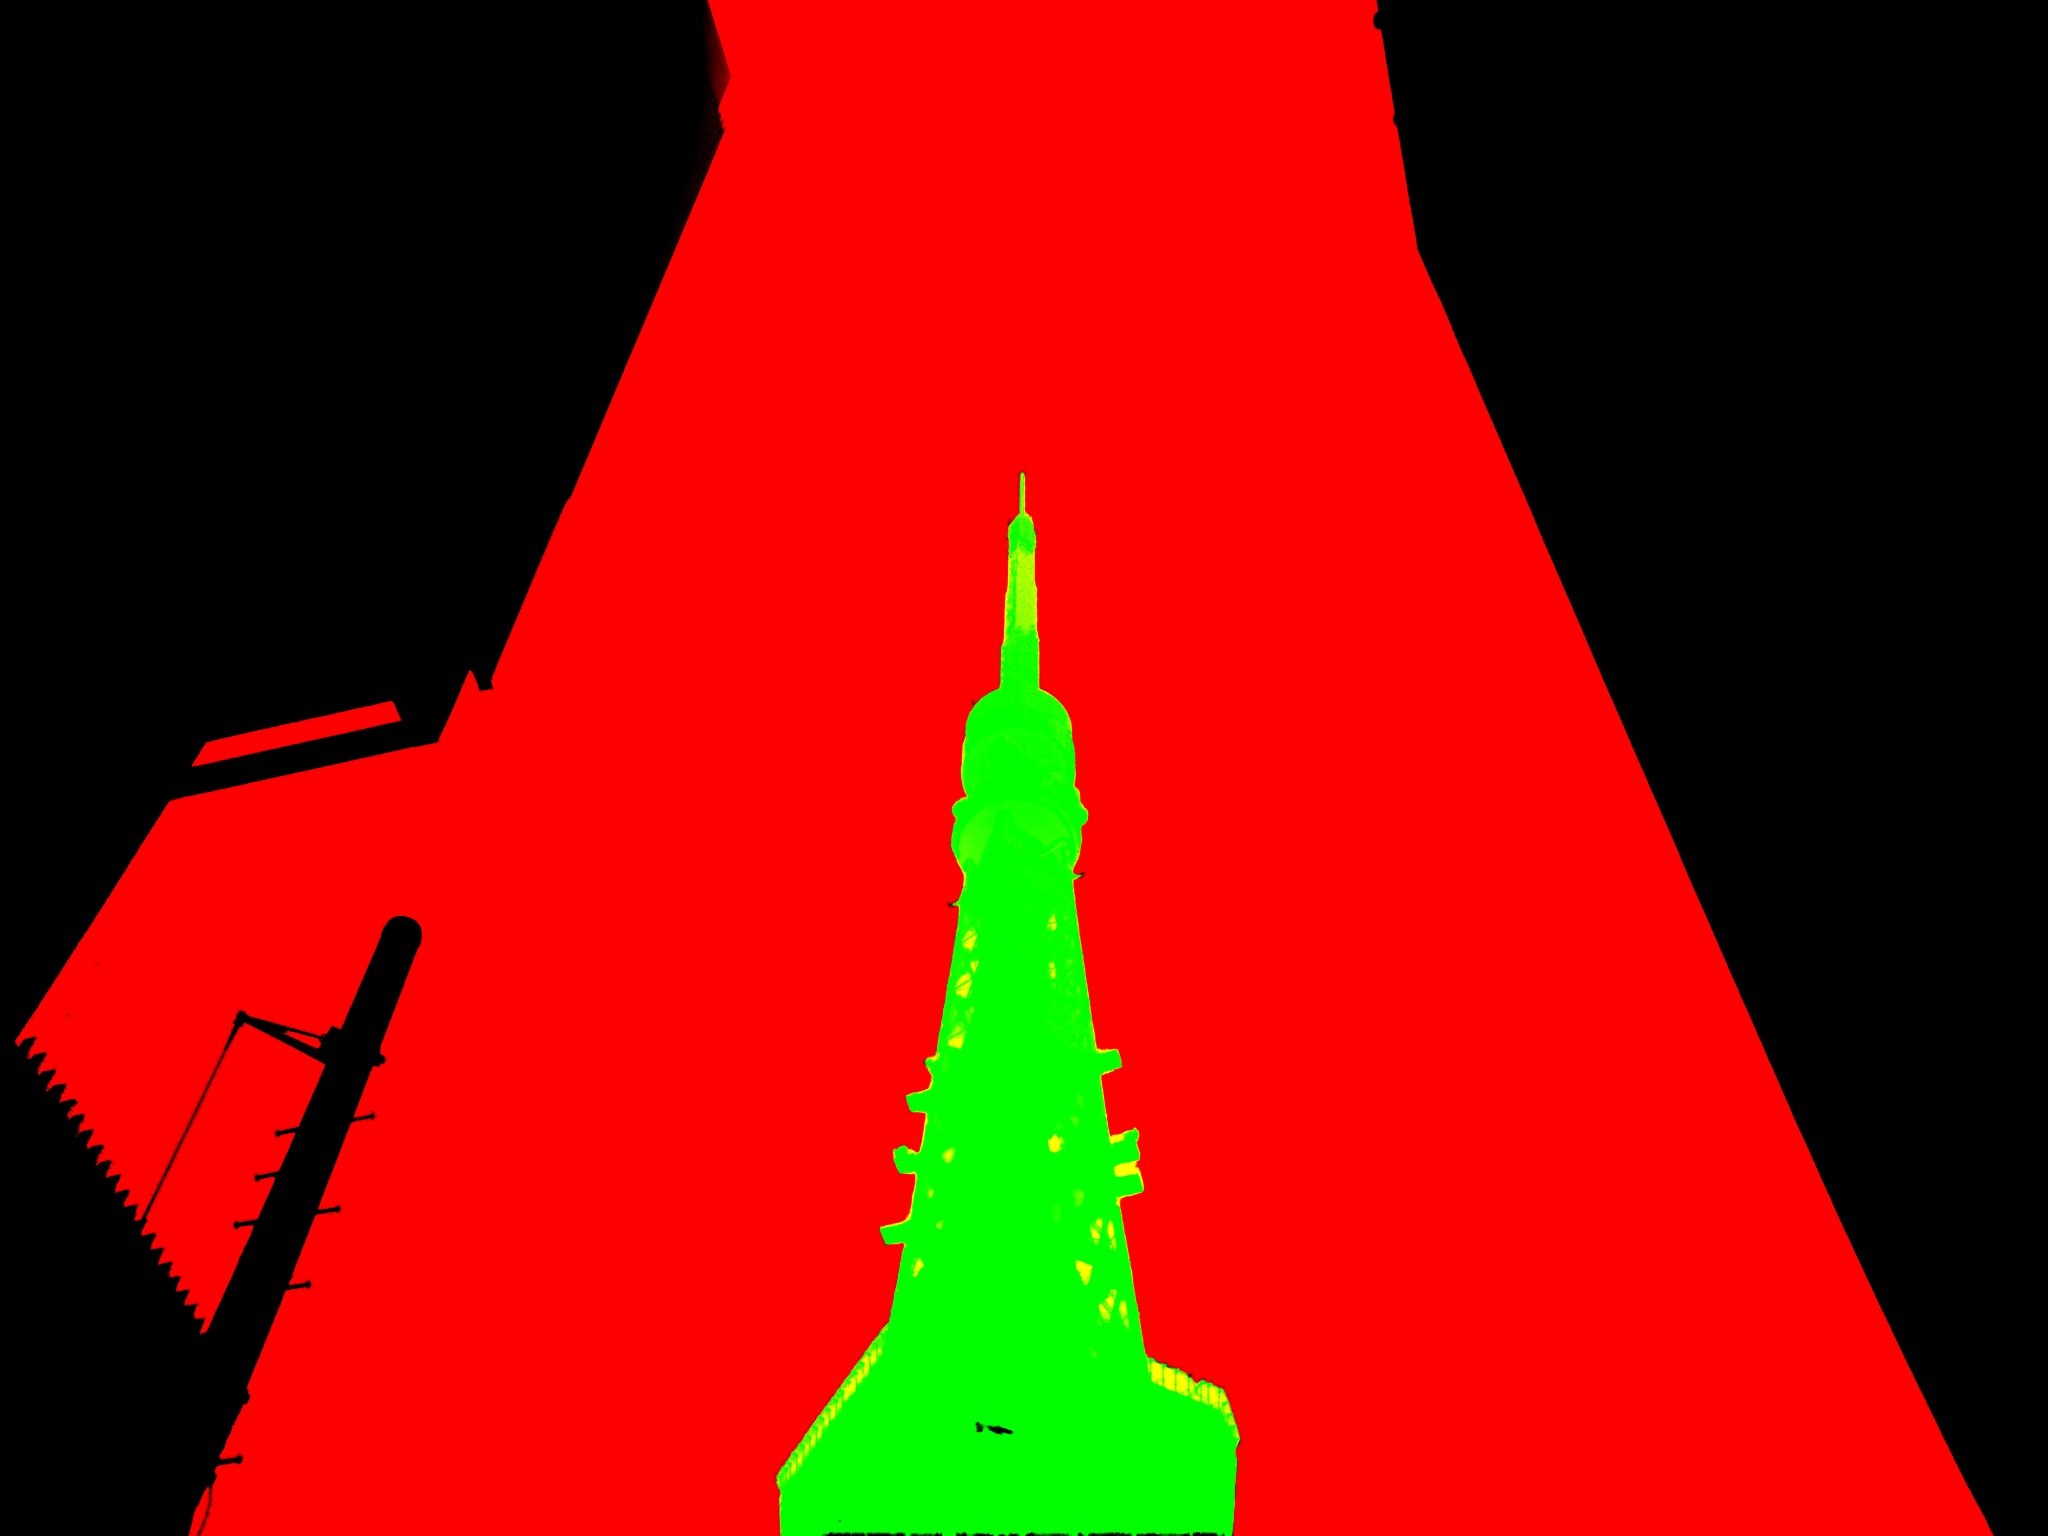
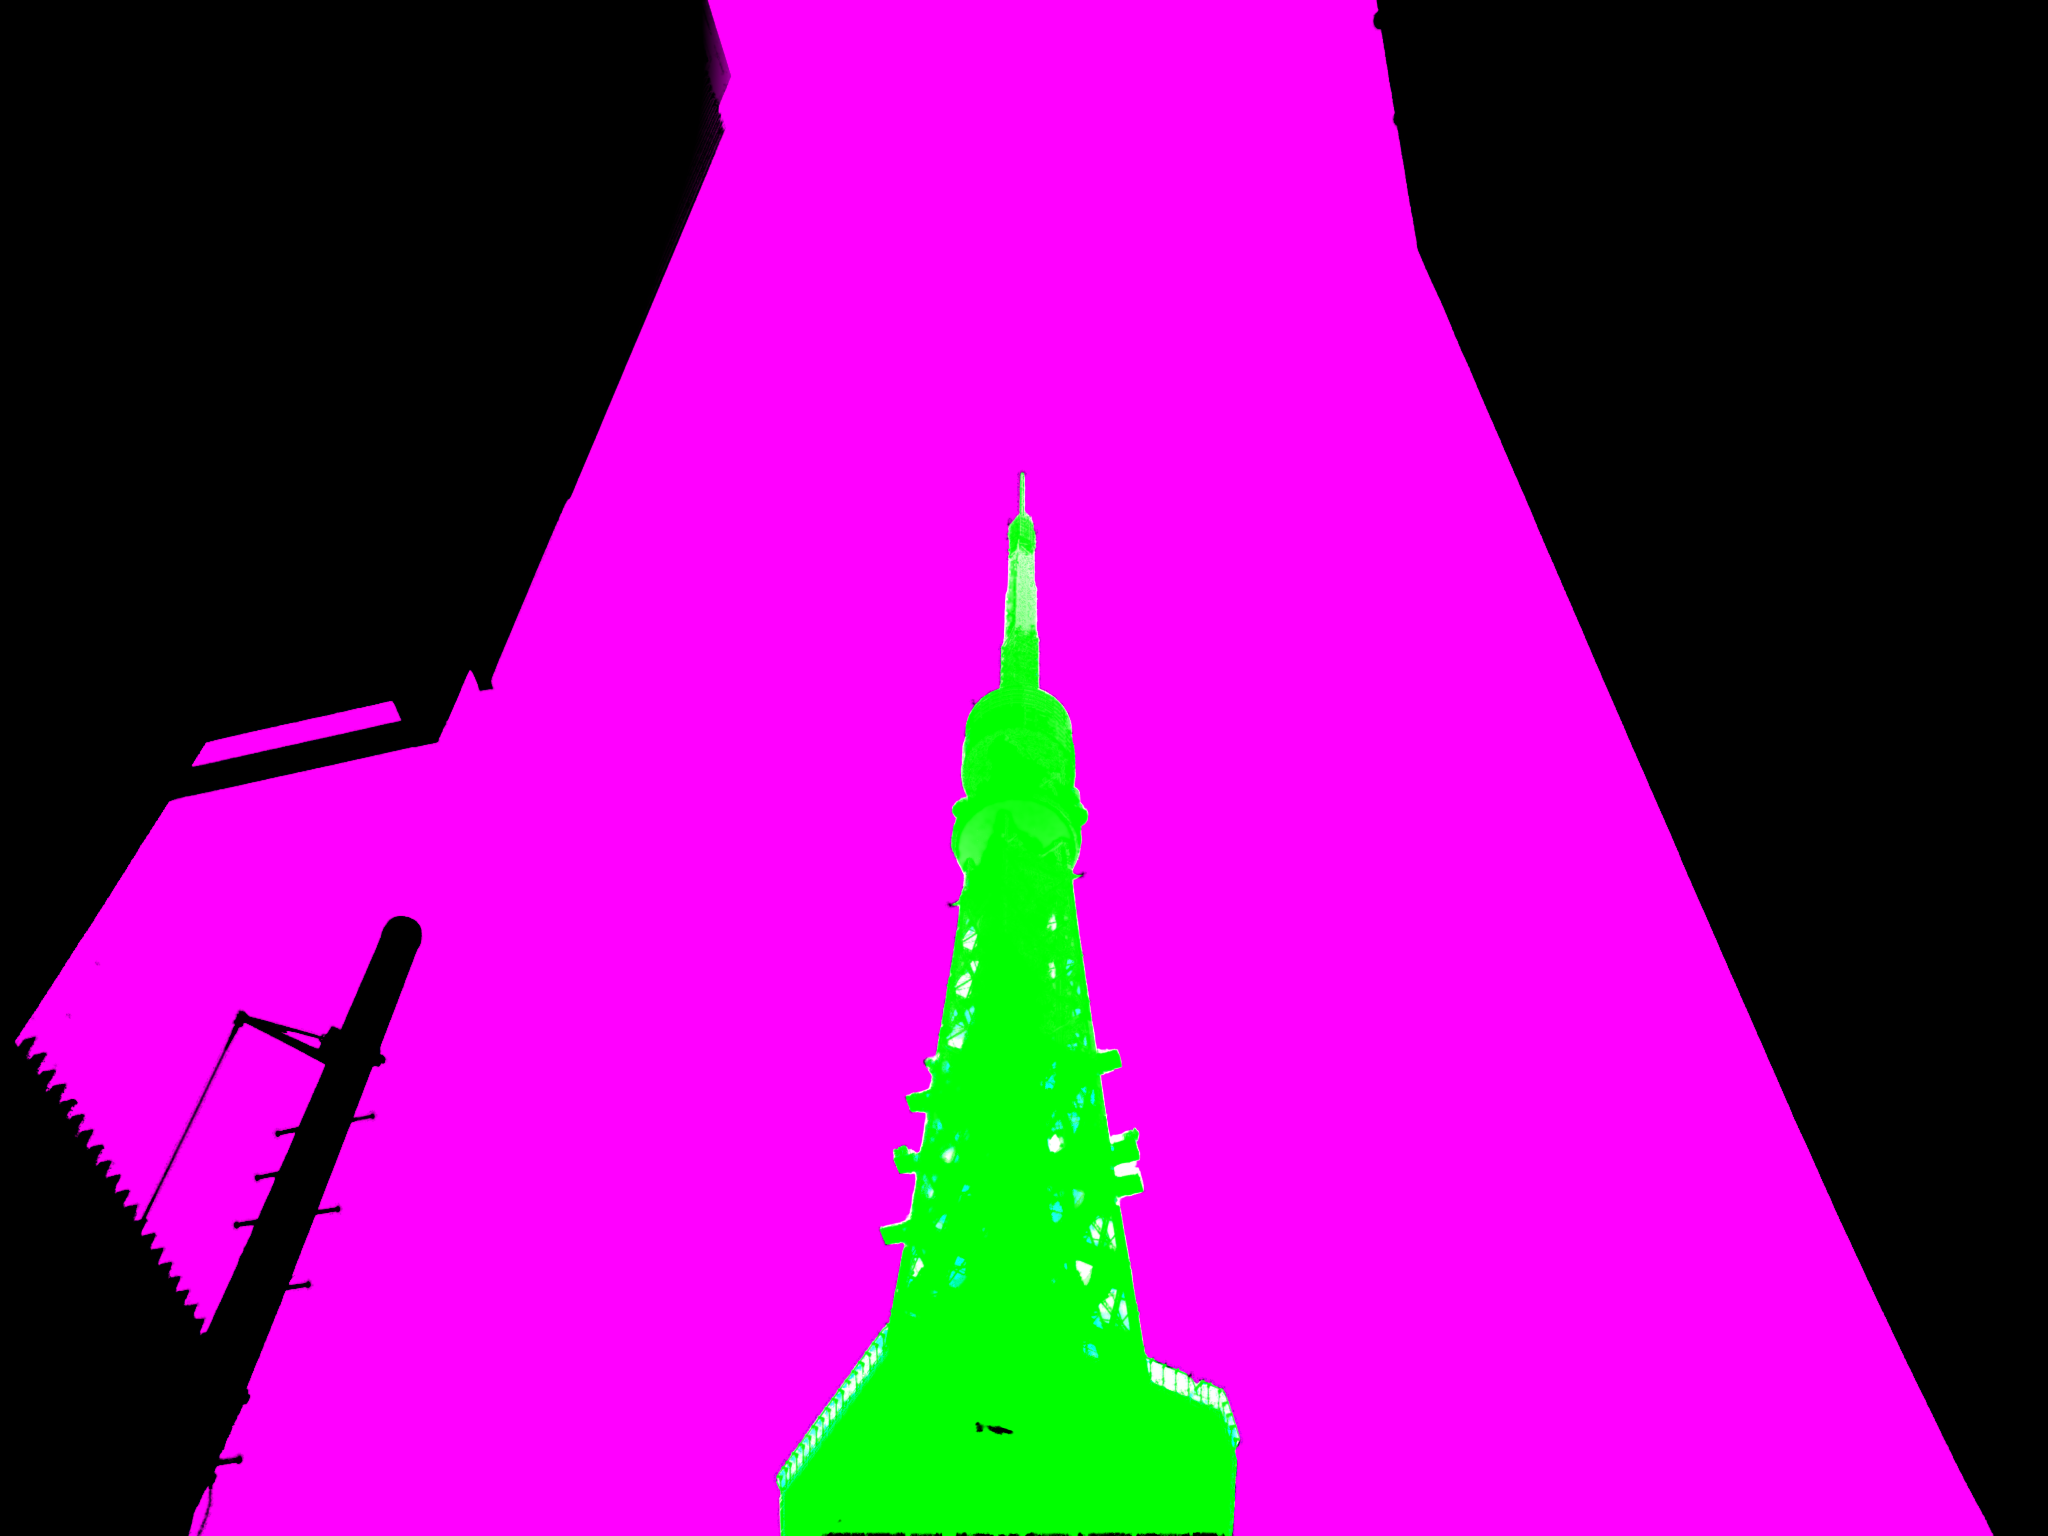
Lab: climb passes round 1
Claude-Session: https://claude.ai/code/session_01RqENhngNCzDFmJWDZueXGV

diff --git a/src/app/lab/passes/passesEngine.js b/src/app/lab/passes/passesEngine.js
@@ -6,7 +6,10 @@ import { createStage, clamp } from "../_kit/stage";
 // Everything but the light is baked offline (tools/depth/bakes/passes.py):
 // the photo; an albedo with the daylight shading divided out; the Depth
 // Anything V2 map as 16 bits across R and G, with depth minus a wide blur in
-// B; MoGe-2 normals; and mattes for the sky (R) and the tower (G).
+// B; MoGe-2 normals; and mattes for the sky (R) and the tower (G). B is the
+// whole sky: R with the holes in the tower's lattice added, keyed and unmixed
+// at the source's full 4000 px (tools/depth/bakes/passes-gaps.py), and the
+// albedo there holds the steel alone, the plate's haze taken out of it.
 //
 // The drag is the sun: across is its azimuth around the camera (straight
 // ahead, behind the tower, in the middle; behind your shoulder at either
@@ -28,7 +31,7 @@ void main(){ gl_Position = vec4(aPos, 0.0, 1.0); }`;
 
 const FS = `#version 300 es
 precision highp float;
-uniform sampler2D uPhoto, uAlbedo, uDepth, uNormal, uMatte, uHalo, uSky, uSkyBlue, uPlateSky;
+uniform sampler2D uAlbedo, uDepth, uNormal, uMatte, uHalo, uSky, uSkyBlue;
 uniform vec2 uRes;        // canvas px
 uniform vec4 uMap;        // image uv = frag * uMap.xy + uMap.zw (cover fit)
 uniform vec3 uSun;        // unit direction to the sun, camera space (x right, y up, z to the viewer)
@@ -68,15 +71,11 @@ void main(){
   vec2 frag = vec2(gl_FragCoord.x, uRes.y - gl_FragCoord.y);
   vec2 uv = frag * uMap.xy + uMap.zw;
 
-  vec3 photo = texture(uPhoto, uv).rgb;
-  vec2 mt = texture(uMatte, uv).rg;
-  // Sky shows through the tower's lattice inside its matte: where the plate
-  // there is the colour of the plate's own sky around it. (Only that: the
-  // tower's white paint in shade is blue too, and taking it for sky would
-  // let the clouds through it.)
-  float gap = mt.g * (1.0 - smoothstep(0.045, 0.1, distance(photo, texture(uPlateSky, uv).rgb)));
-  float sky = clamp((mt.r + gap - 0.02) / 0.98, 0.0, 1.0);
-  float tower = mt.g * (1.0 - gap);
+  // The whole sky, the lattice's holes in it, a pixel's edge wide; the
+  // tower's paint.
+  vec3 mt = texture(uMatte, uv).rgb;
+  float sky = clamp((mt.b - 0.02) / 0.98, 0.0, 1.0);
+  float tower = mt.g;
 
   // The camera ray through this pixel, from the plate's lens.
   vec3 V = normalize(vec3((uv.x - 0.5) * LENS, -(uv.y - 0.5) * LENS / ASPECT, -1.0));
@@ -93,14 +92,15 @@ void main(){
   // It comes in two layers, split offline: the open sky's blue (an amount
   // of SKY_BLUE) and what the clouds and the haze round the sun add over it.
   // They are graded apart, the way a polariser does it: the blue deepens to
-  // cobalt toward the zenith and pales to cyan along the walls and lower
-  // down, while the clouds keep their light, warmed toward the key.
+  // cobalt toward the zenith and pales to cyan lower down, while the
+  // clouds keep their light, warmed toward the key.
   vec3 cloud = skyDecode(textureGrad(uSky, st, sx, sy).rgb, 4.0);
   float beta = skyDecode(textureGrad(uSkyBlue, st, sx, sy).rrr, 1.0).r;
+  // Paler only with the ray's own elevation: the sky does not know where the
+  // walls stand, and paling it toward them drew a lit band along every edge
+  // and filled the gap under the balcony with haze.
   float elev = asin(clamp(dot(V, uUp), -1.0, 1.0));
-  vec2 mb = 0.5 * (textureLod(uMatte, uv, 6.0).rg + textureLod(uMatte, uv, 7.5).rg);
-  float wall = 1.0 - smoothstep(0.35, 1.0, mb.r + mb.g);
-  float pale = clamp(wall * 0.55 + 1.0 - smoothstep(0.6, 1.25, elev), 0.0, 1.0);
+  float pale = 1.0 - smoothstep(0.6, 1.25, elev);
   vec3 blue = mix(vec3(0.014, 0.16, 0.66), vec3(0.3, 1.1, 2.0), pale * pale);
   // The clouds' shoulder: a roll-off on their luminance ahead of the tone
   // curve, so the tops near the sun come down to a warm paper white instead
@@ -122,13 +122,26 @@ void main(){
   // Surfaces. Albedo in linear light; the plate's grade left the concrete
   // olive, so most of the chroma comes off the walls (not the tower's paint),
   // and both are brought up from the shade they were photographed in.
-  // A half-step softer mip: brought up from shade, the plate's compression
-  // noise would otherwise come up with it.
-  vec3 alb = toLin(texture(uAlbedo, uv, 0.6).rgb);
+  // On the walls a half-step softer mip: brought up from shade, the plate's
+  // compression noise would otherwise come up with it. The lattice keeps the
+  // full mip, its members are a pixel or two wide.
+  vec3 alb = toLin(texture(uAlbedo, uv, mix(0.6, 0.0, tower)).rgb);
   alb = mix(vec3(luma(alb)), alb, mix(0.18, 1.0, tower)) * mix(vec3(1.0, 0.97, 0.93), vec3(1.0), tower);
-  alb = min(alb * mix(8.0, 4.2, tower), vec3(0.82));
+  // The walls clip at a pale concrete. The tower's paint rolls off into it
+  // instead: brought up four times, its white members and the half-lit steel
+  // behind them would all clip to the same flat cream, and the lattice would
+  // go to a milky mush with no members in it.
+  vec3 wallAlb = min(alb * 8.0, vec3(0.82));
+  vec3 towerAlb = 0.86 * (1.0 - exp(-alb * 3.4 / 0.86));
+  alb = mix(wallAlb, towerAlb, tower);
 
-  vec3 n = normalize(texture(uNormal, uv).rgb * 2.0 - 1.0);
+  // The lattice has no surface at the scale MoGe sees it: its normals there
+  // are soft blobs, and a sun shaded by them laid lit veils across the truss
+  // like cobwebs. Over the tower they come from a coarse mip, so the light
+  // turns with its faces, and each member, round, wraps the light further.
+  vec3 n = texture(uNormal, uv).rgb * 2.0 - 1.0;
+  n = normalize(mix(n, textureLod(uNormal, uv, 4.5).rgb * 2.0 - 1.0, tower * 0.9));
+  float wrap = mix(0.08, 0.4, tower);
   float bend = (texture(uDepth, uv).b - 0.5) * 2.0;
 
   // No cast shadows: the depth map only holds what the camera saw, so a
@@ -137,11 +150,11 @@ void main(){
   // recessed window, the wall behind the pole) the sun reaches it less.
   vec3 L = uSun;
   float ndl = dot(n, L);
-  float vis = 1.0 - 0.55 * smoothstep(0.04, 0.3, -bend);
+  float vis = 1.0 - 0.55 * smoothstep(0.04, 0.3, -bend) * (1.0 - 0.7 * tower);
   // Key: the sun, with a touch of wrap so the terminator rolls off. Fill: the
   // open sky, cyan, strongest on faces that look up into it, weaker in the
   // creases behind a silhouette. Bounce: a little of the sun off the walls.
-  float key = max((ndl + 0.08) / 1.08, 0.0) * vis;
+  float key = max((ndl + wrap) / (1.0 + wrap), 0.0) * vis;
   float skyVis = clamp(0.55 + 0.45 * dot(n, uUp), 0.0, 1.0) * (1.0 - 0.35 * smoothstep(0.0, 0.3, -bend));
   vec3 fill = vec3(0.11, 0.27, 0.45) * mix(0.6, 1.0, uDay) * skyVis;
   vec3 bounce = uSunCol * 0.035 * (0.5 - 0.5 * dot(n, uUp));
@@ -279,54 +292,6 @@ function haloMask(photo, matte) {
   return { w, h, data: out };
 }
 
-// The plate's sky colour around each point, the sky pixels alone blurred
-// about 28 px at full size: what a gap in the tower's lattice looks like.
-// Blurred with the matte as weight, so walls and tower do not bleed in.
-function plateSky(photo, matte) {
-  const w = 256;
-  const h = 192;
-  const p = readSmall(photo, w, h);
-  const m = readSmall(matte, w, h);
-  const acc = new Float32Array(w * h * 4);
-  for (let i = 0; i < w * h; i++) {
-    const k = m[4 * i] > 250 ? 1 : 0;
-    acc[4 * i] = p[4 * i] * k;
-    acc[4 * i + 1] = p[4 * i + 1] * k;
-    acc[4 * i + 2] = p[4 * i + 2] * k;
-    acc[4 * i + 3] = k;
-  }
-  // Three box passes each way, radius 3: close to a Gaussian.
-  const tmp = new Float32Array(acc.length);
-  const box = (src, dst, step, n, lines, stride) => {
-    for (let l = 0; l < lines; l++) {
-      const o = l * stride;
-      for (let x = 0; x < n; x++) {
-        for (let c = 0; c < 4; c++) {
-          let sum = 0;
-          for (let d = -3; d <= 3; d++) {
-            const xx = Math.min(n - 1, Math.max(0, x + d));
-            sum += src[4 * (o + xx * step) + c];
-          }
-          dst[4 * (o + x * step) + c] = sum / 7;
-        }
-      }
-    }
-  };
-  for (let r = 0; r < 3; r++) {
-    box(acc, tmp, 1, w, h, w);
-    box(tmp, acc, w, h, w, 1);
-  }
-  const out = new Uint8Array(w * h * 4);
-  for (let i = 0; i < w * h; i++) {
-    const k = Math.max(acc[4 * i + 3], 1e-4);
-    out[4 * i] = Math.round(acc[4 * i] / k);
-    out[4 * i + 1] = Math.round(acc[4 * i + 1] / k);
-    out[4 * i + 2] = Math.round(acc[4 * i + 2] / k);
-    out[4 * i + 3] = 255;
-  }
-  return { w, h, data: out };
-}
-
 export async function createPasses(host) {
   const [photo, albedo, depth, normal, matte, skyCloud, skyBlue] = await Promise.all(
     ["photo.webp", "albedo.webp", "depth.png", "normal.webp", "matte.png", "sky-cloud.avif", "sky-blue.avif"].map(
@@ -377,7 +342,6 @@ export async function createPasses(host) {
     params2d(mips);
     gl.uniform1i(U(name), unit);
   };
-  tex(photo, 0, "uPhoto", true);
   tex(depth, 1, "uDepth", false);
   tex(normal, 2, "uNormal", true);
   tex(albedo, 3, "uAlbedo", true);
@@ -391,13 +355,6 @@ export async function createPasses(host) {
   gl.generateMipmap(gl.TEXTURE_2D);
   params2d(true);
   gl.uniform1i(U("uHalo"), 5);
-
-  const ps = plateSky(photo, matte);
-  gl.activeTexture(gl.TEXTURE7);
-  gl.bindTexture(gl.TEXTURE_2D, gl.createTexture());
-  gl.texImage2D(gl.TEXTURE_2D, 0, gl.RGBA8, ps.w, ps.h, 0, gl.RGBA, gl.UNSIGNED_BYTE, ps.data);
-  params2d(false);
-  gl.uniform1i(U("uPlateSky"), 7);
 
   // The sky dome's two layers: azimuth repeats, and anisotropic filtering
   // where the GPU has it, since the equirect stretches across toward the
